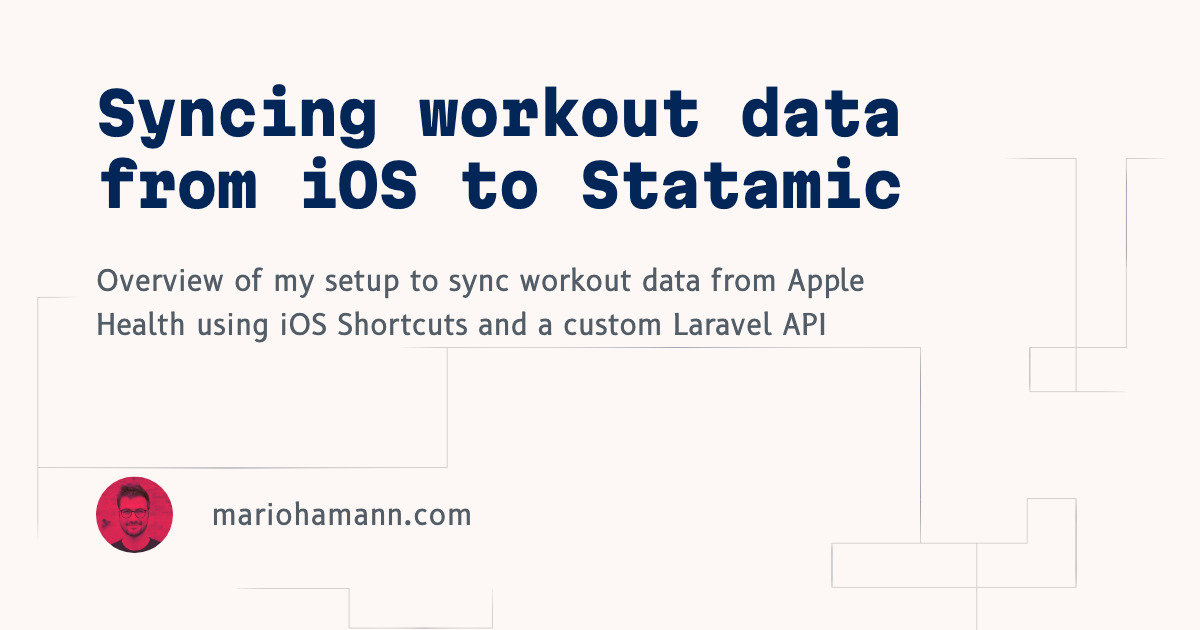
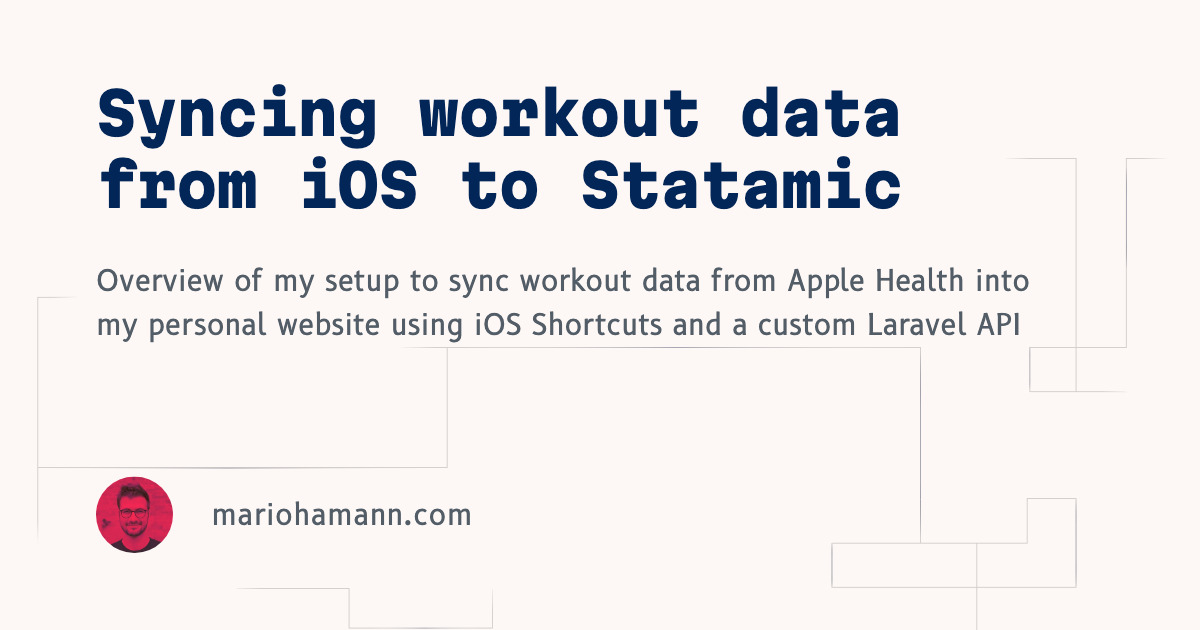
feat: update teaser

Changed region(s): [[0.0617, 0.4222, 0.8633, 0.5429]]

diff --git a/content/collections/articles/2024-04-08.syncing-workout-data-from-ios-to-statamic.md b/content/collections/articles/2024-04-08.syncing-workout-data-from-ios-to-statamic.md
@@ -2,14 +2,14 @@
 id: 260d5b7d-2714-4d76-bc46-961d769e0058
 blueprint: articles
 title: 'Syncing workout data from iOS to Statamic'
-teaser: 'Overview of my setup to sync workout data from Apple Health using iOS Shortcuts and a custom Laravel API'
+teaser: 'Overview of my setup to sync workout data from Apple Health into my personal website using iOS Shortcuts and a custom Laravel API'
 seo_noindex: false
 seo_nofollow: false
 seo_canonical_type: entry
 sitemap_change_frequency: weekly
 sitemap_priority: 0.5
 updated_by: 225d58b0-3de7-45fb-b9a6-a2f543c6834c
-updated_at: 1713383113
+updated_at: 1713383270
 content:
   -
     id: lurae45j
